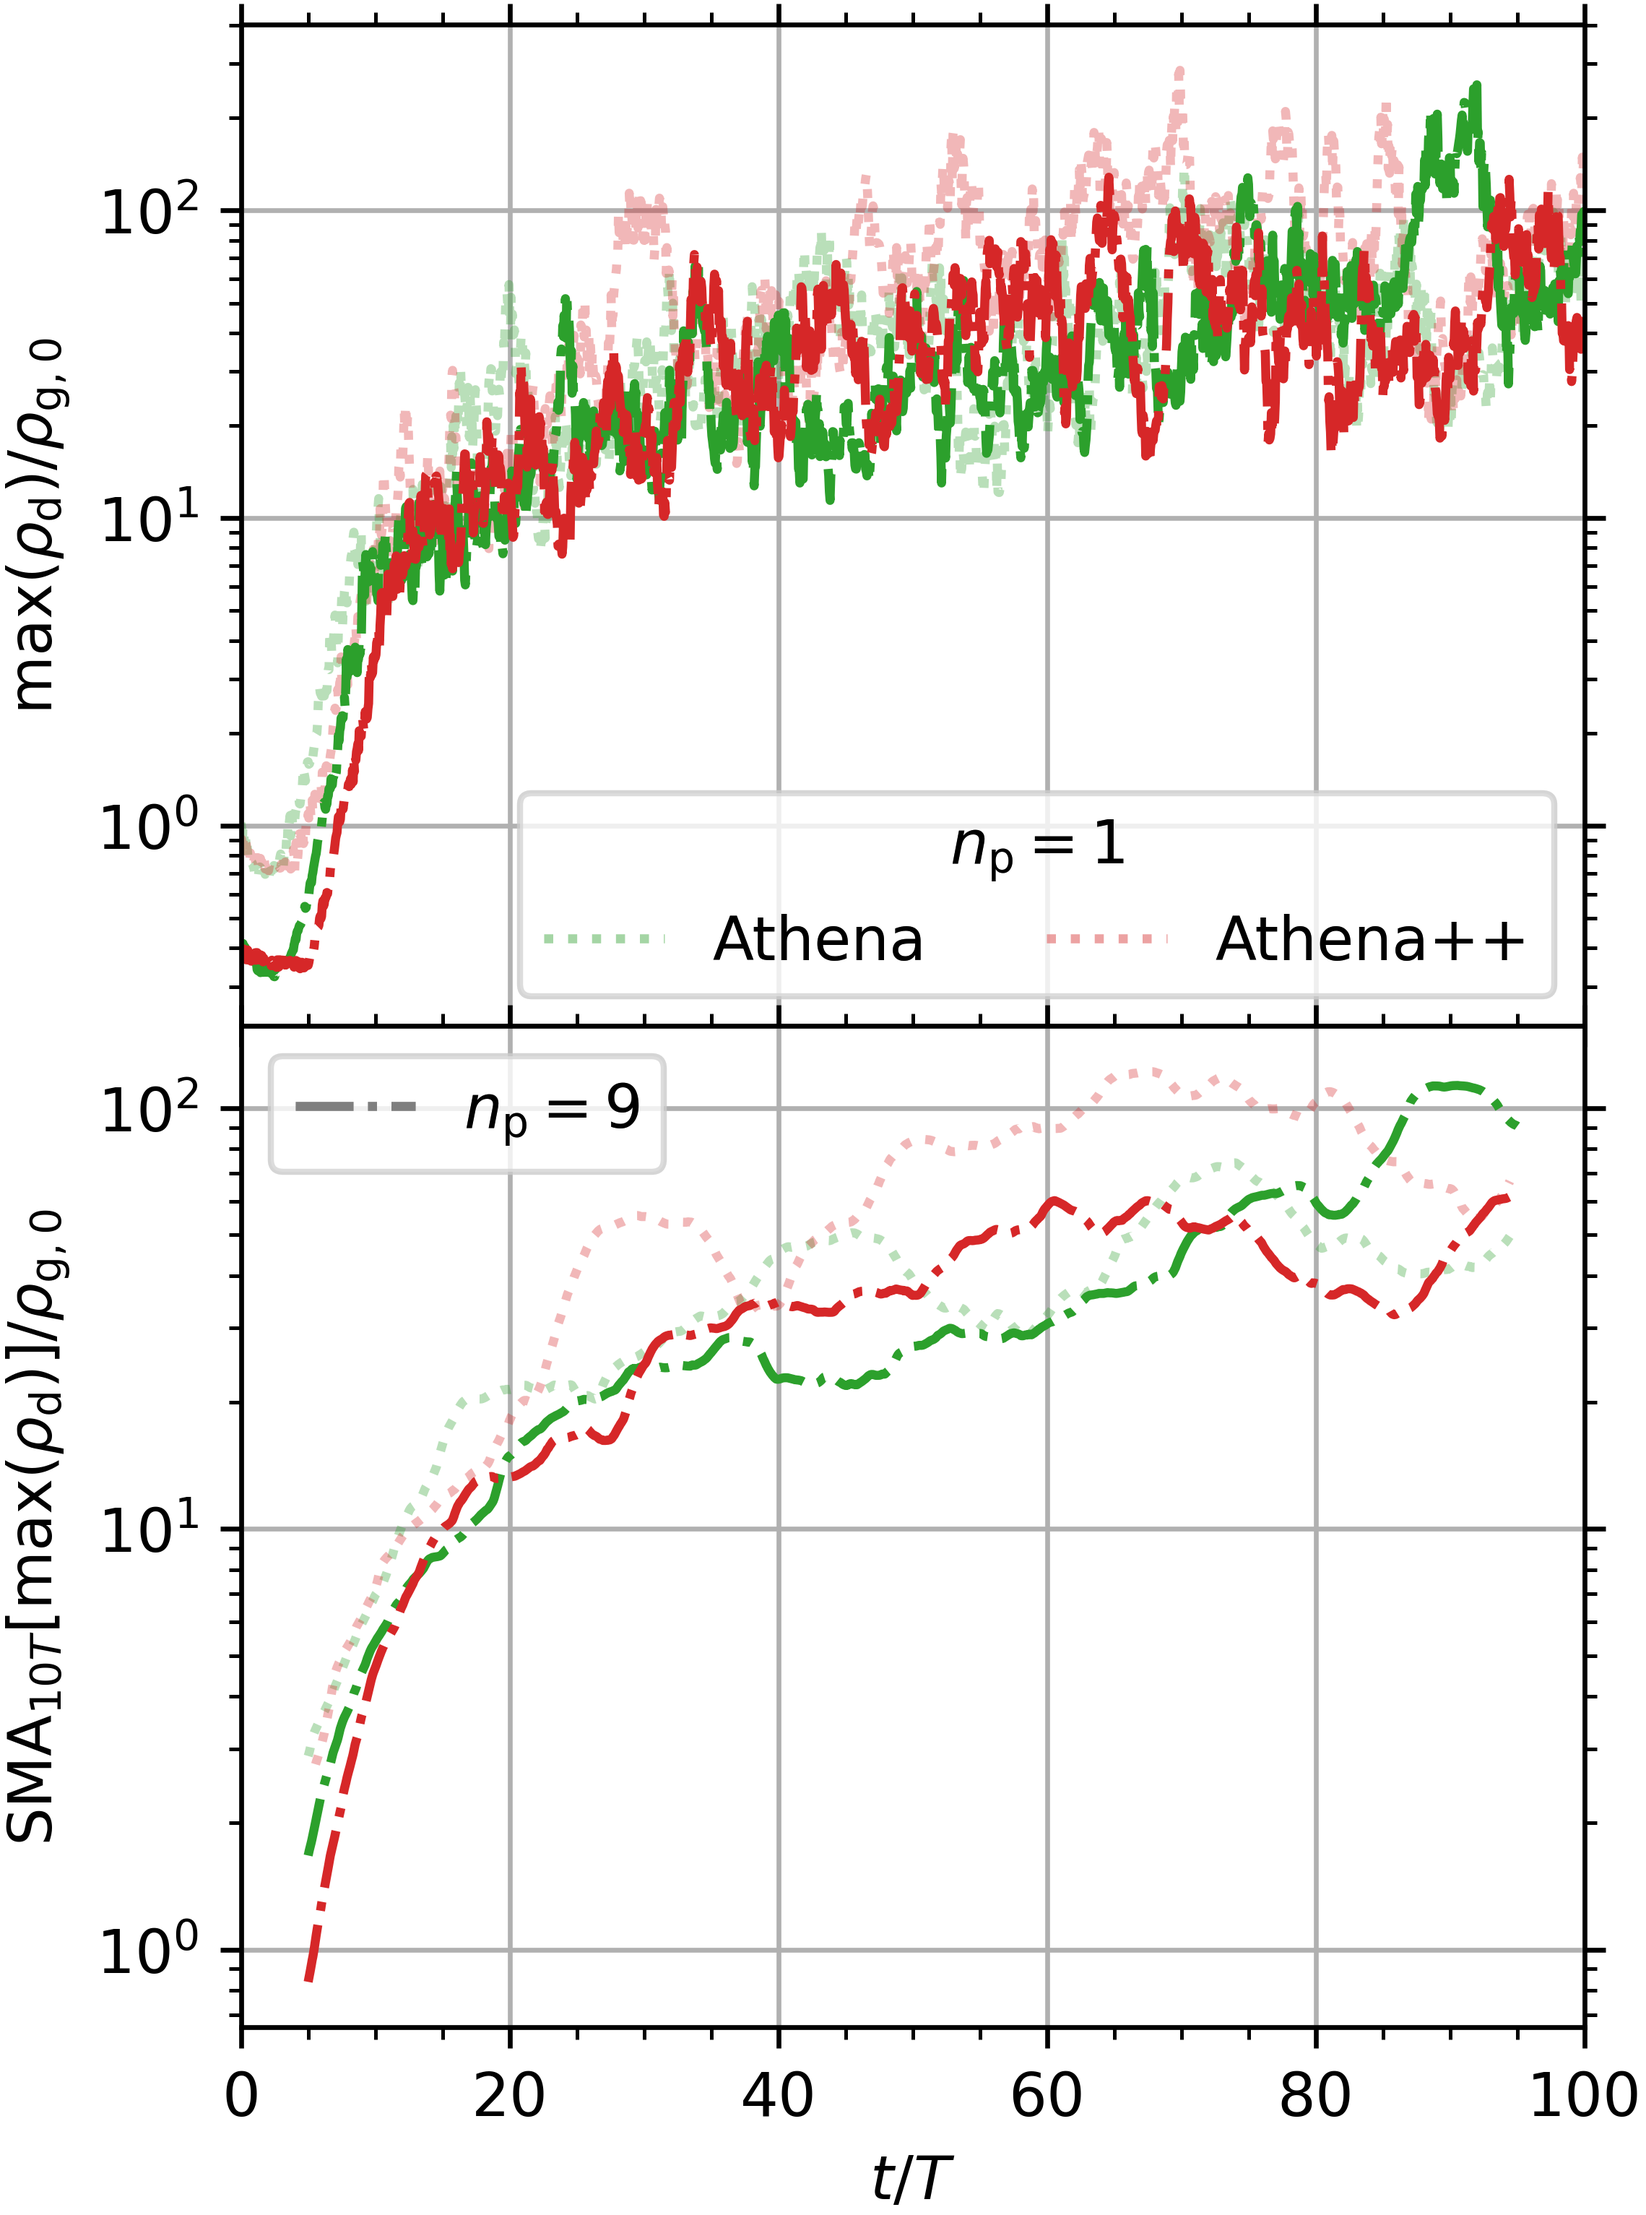
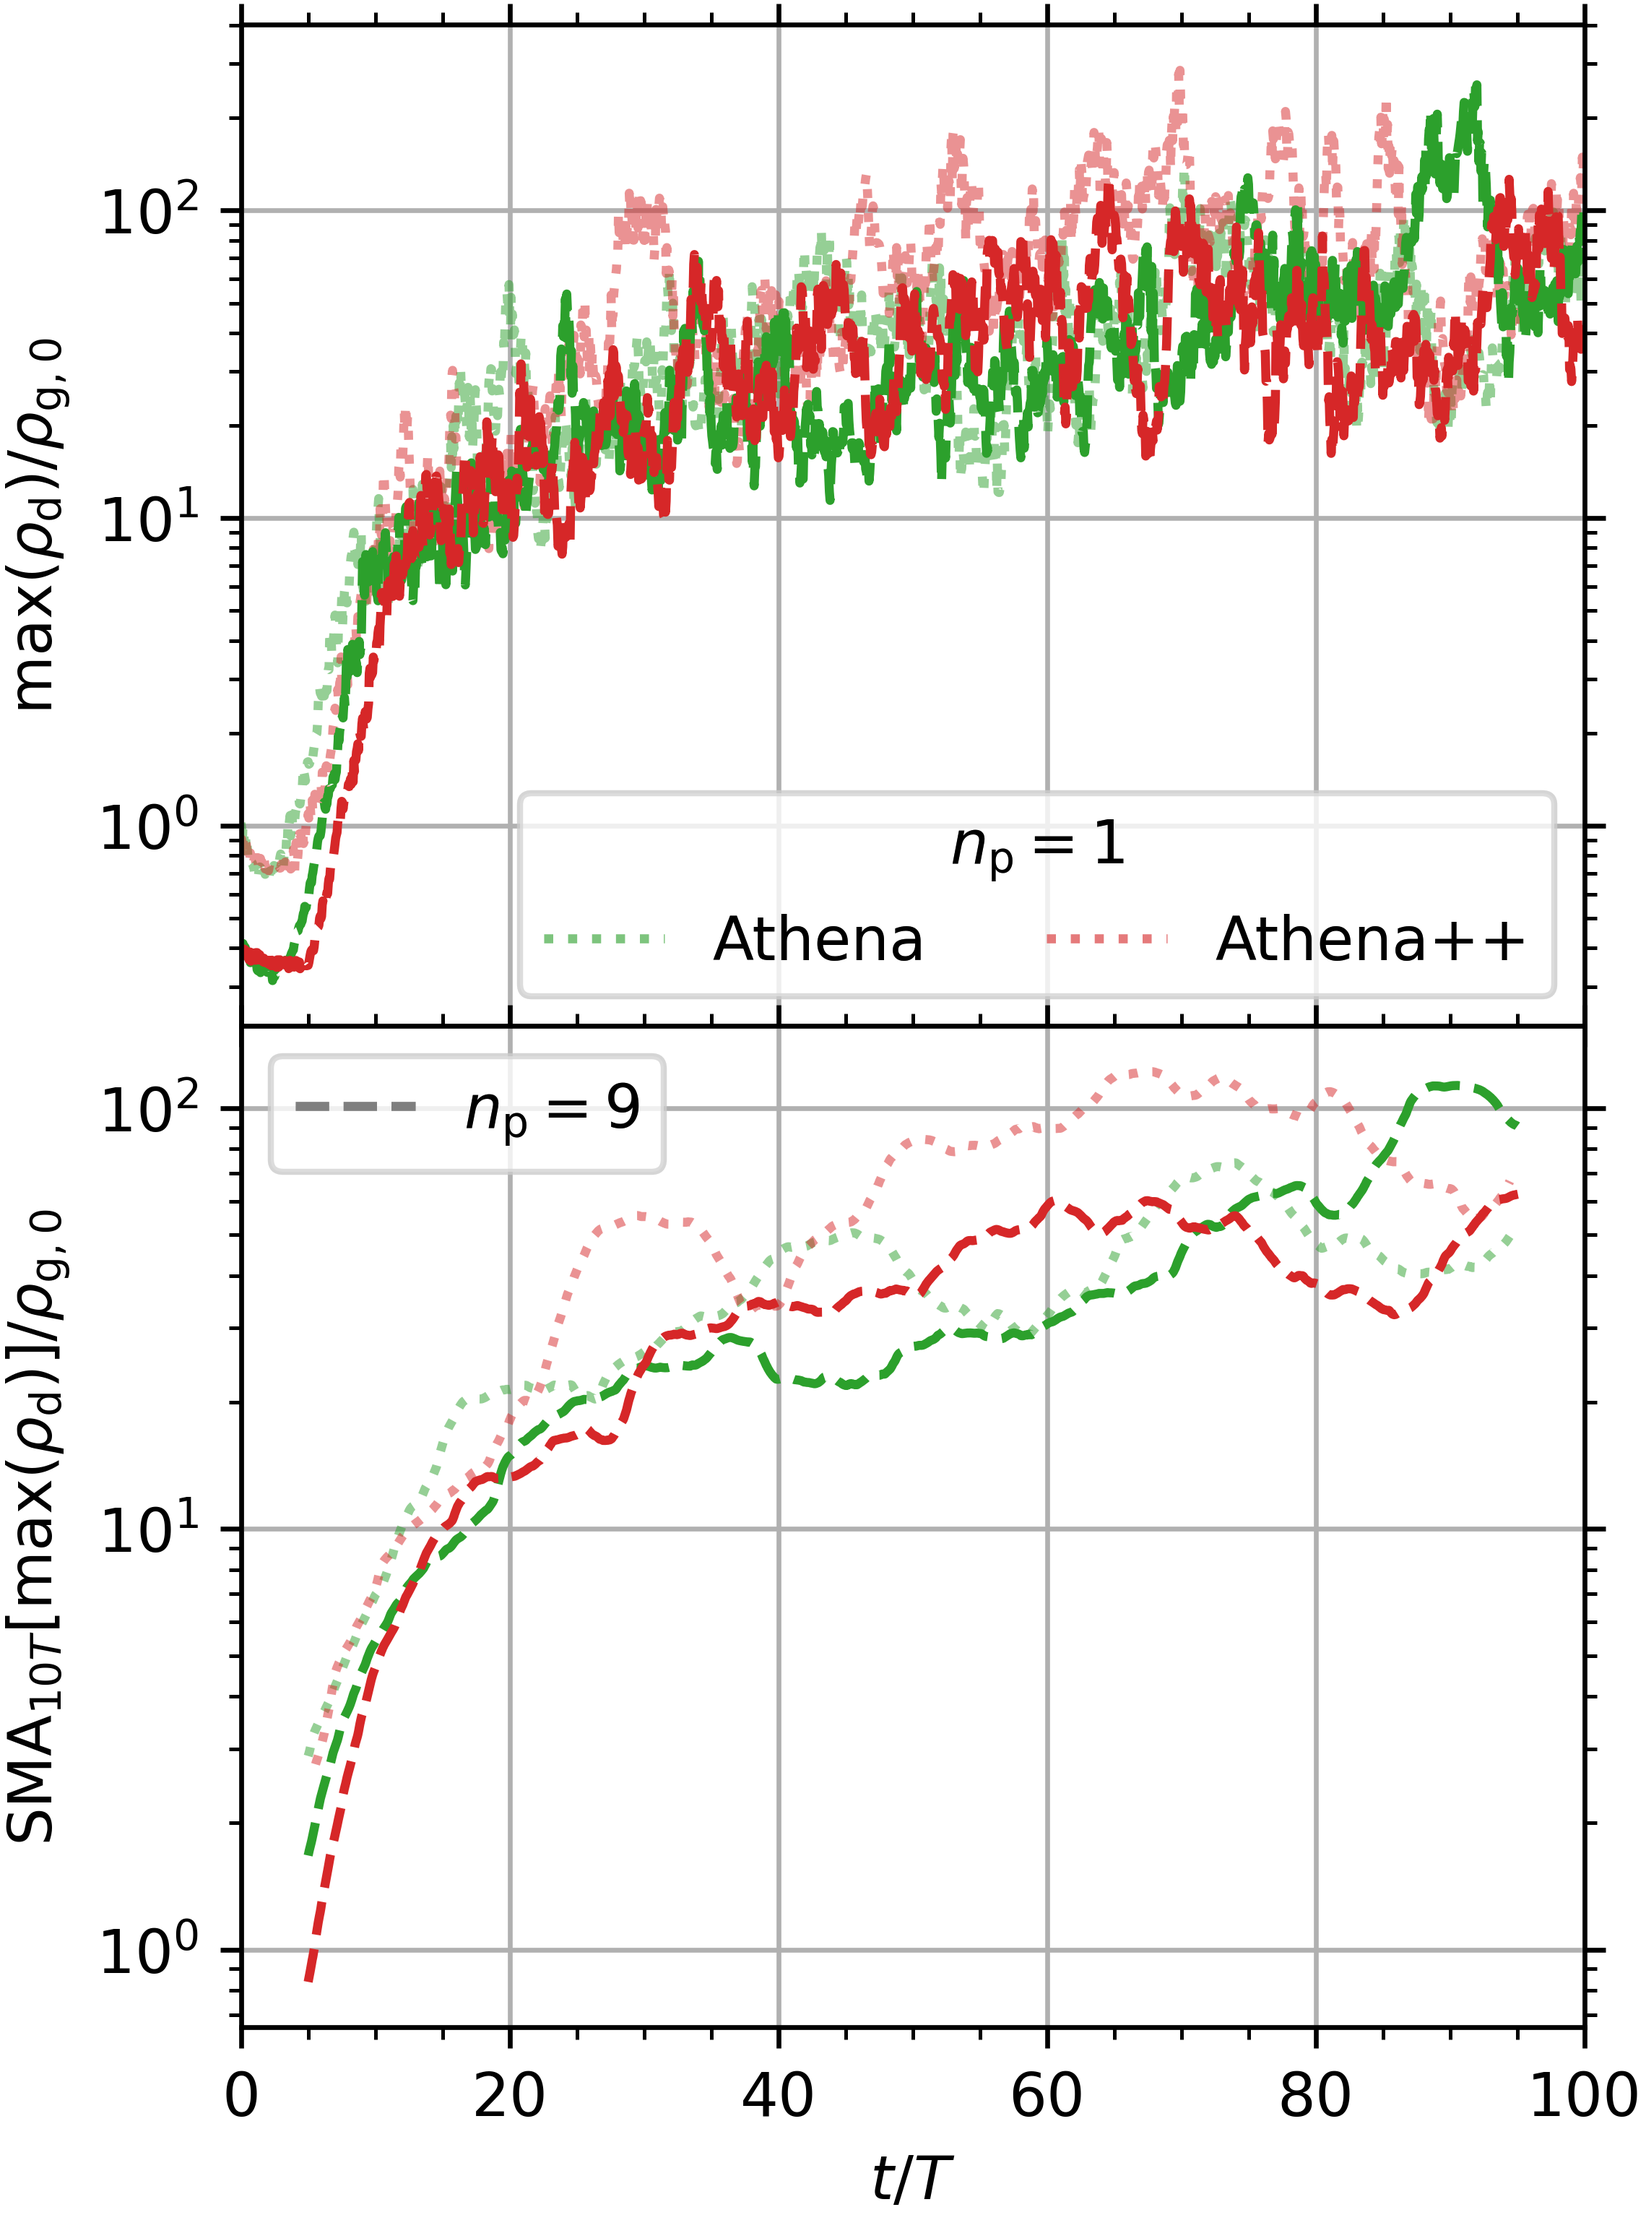
Add FARGO3D 1024^2 runs; change dashdot to dashed to compare lines

diff --git a/_research/05-code-comparison.md b/_research/05-code-comparison.md
@@ -66,11 +66,11 @@ Dotted lines show codes that implement an average of one (1) Lagrangian particle
 **Figure 4.** Similar to Figure [1](#higher-particle-resolution:~:text=Permalink-,Figure%201.,-Dust%20density%20snapshots) except for only codes that implement an average of nine (9) Lagrangian particles per grid cell.
 
 ![](/assets/images/research/code-comparison/si/BA-512-np9_time_series.png)
-**Figure 5.** Similar to Figure [2](#higher-particle-resolution:~:text=.-,Figure%202.,-Maximum%20dust%20densities) except comparing only Lagrangian-particle implementations and that dash–dotted lines show an average of nine (9) particles per grid cell.
+**Figure 5.** Similar to Figure [2](#higher-particle-resolution:~:text=.-,Figure%202.,-Maximum%20dust%20densities) except comparing only Lagrangian-particle implementations with dashed lines showing an average of nine (9) particles per grid cell.
 The top panel uses a similar cadence for each time series with an average of 1000 samples per code.
 
 ![](/assets/images/research/code-comparison/si/BA-512-np9_CDF.png)
-**Figure 6.** Similar to Figure [3](#higher-particle-resolution:~:text=show%20different%20codes.-,Figure%203.,-Time%2Daveraged%20cumulative) except comparing only Lagrangian-particle implementations and that dash–dotted lines show an average of nine (9) particles per grid cell.
+**Figure 6.** Similar to Figure [3](#higher-particle-resolution:~:text=show%20different%20codes.-,Figure%203.,-Time%2Daveraged%20cumulative) except comparing only Lagrangian-particle implementations with dashed lines showing an average of nine (9) particles per grid cell.
 
 #### Higher Grid Resolution
 
@@ -78,8 +78,8 @@ The top panel uses a similar cadence for each time series with an average of 100
 **Figure 7.** Similar to Figure [1](#higher-particle-resolution:~:text=Permalink-,Figure%201.,-Dust%20density%20snapshots) except at a grid resolution of 1024².
 
 ![](/assets/images/research/code-comparison/si/BA-1024_time_series.png)
-**Figure 8.** Similar to Figure [2](#higher-particle-resolution:~:text=.-,Figure%202.,-Maximum%20dust%20densities) but with dash–dotted lines showing grid resolutions of 1024².
+**Figure 8.** Similar to Figure [2](#higher-particle-resolution:~:text=.-,Figure%202.,-Maximum%20dust%20densities) but with dashed lines showing grid resolutions of 1024².
 The top panel uses a similar cadence for each time series with an average of 600 samples per code.
 
 ![](/assets/images/research/code-comparison/si/BA-1024_CDF.png)
-**Figure 9.** Similar to Figure [3](#higher-particle-resolution:~:text=show%20different%20codes.-,Figure%203.,-Time%2Daveraged%20cumulative) but with dash–dotted lines showing grid resolutions of 1024².
+**Figure 9.** Similar to Figure [3](#higher-particle-resolution:~:text=show%20different%20codes.-,Figure%203.,-Time%2Daveraged%20cumulative) but with dashed lines showing grid resolutions of 1024².
